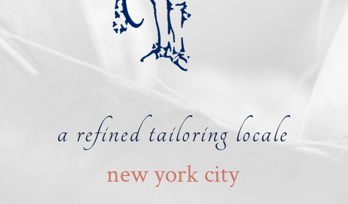
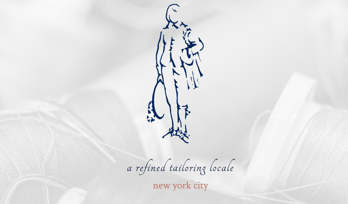
changed svgs to pngs

diff --git a/index.html b/index.html
@@ -70,7 +70,7 @@
 								<p>Website design for rewards based gaming platform</p>
 							</article>
 							<article class="6u$ 12u$(xsmall) work-item">
-								<a href="http://themodernboutique.com/" target="_blank" class="image fit thumb"><img src="images/modern.svg" alt="" /></a>
+								<a href="http://themodernboutique.com/" target="_blank" class="image fit thumb"><img src="images/modern.png" alt="" /></a>
 								<h3>The Modern Boutique</h3>
 								<p>Website and mobile app design for retail tech co.</p>
 							</article>
@@ -79,12 +79,12 @@
 
 						<div class="row">
 							<article class="6u 12u$(xsmall) work-item">
-								<a href="http://business.airshare.com/" target="_blank" class="image fit thumb"><img src="images/airshare.svg" alt="" /></a>
+								<a href="http://business.airshare.com/" target="_blank" class="image fit thumb"><img src="images/airshare.png" alt="" /></a>
 								<h3>Airshare</h3>
 								<p>Lead designer across native and web platforms</p>
 							</article>
 							<article class="6u$ 12u$(xsmall) work-item">
-								<a href="http://www.shopboyny.com/" target="_blank" class="image fit thumb"><img src="images/shopboy.svg" alt="" /></a>
+								<a href="http://www.shopboyny.com/" target="_blank" class="image fit thumb"><img src="images/shopboy.png" alt="" /></a>
 								<h3>Shopboy</h3>
 								<p>Website design for high fashion NYC tailor</p>
 							</article>
